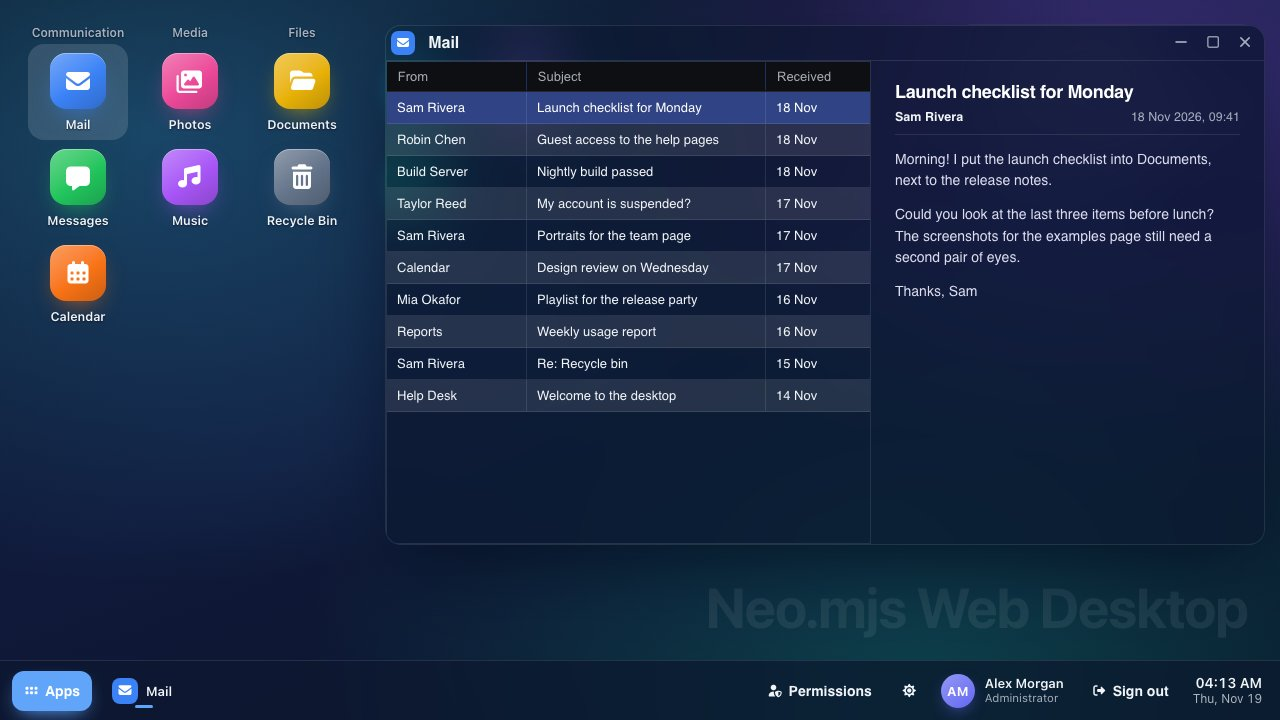
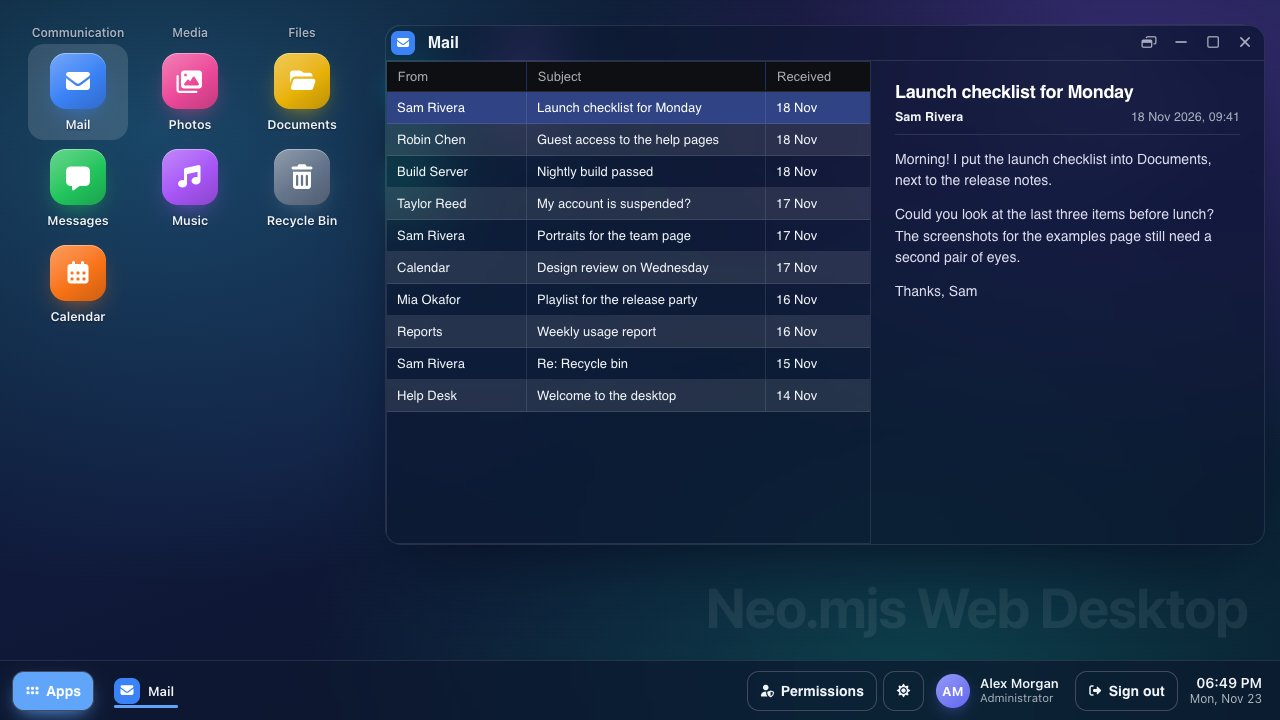
fix(desktop): synchronize popup themes and underline running tasks (#22104) (#22108)
* fix(desktop): synchronize popup themes and underline running tasks (#22104)

* fix(desktop): preserve inherited popup themes on return (#22104)

* fix(desktop): resolve standalone popup themes from the source viewport (#22104)

* docs(examples): refresh the Web Desktop taskbar preview (#22104)

* feat(portal): follow the selected theme in the Web Desktop preview (#22104)

* chore(portal): keep the light gallery cover in its Pages media source (#22104)

Changed region(s): [[0.5938, 0.9167, 1.0, 0.9778], [0.0, 0.9472, 0.1562, 1.0]]

diff --git a/resources/css/src/desktop/TaskList.css b/resources/css/src/desktop/TaskList.css
@@ -21,26 +21,24 @@
         height       : 40px;
         position     : relative;
 
-        /* The open indicator: an 18px bar under a running app, scaled to a 6px dot under a minimized one. It animates
-           the transform only, on the product motion tokens, which reduced motion sets to 0ms. */
+        /* Only this absolute, 3px-high marker changes size. Moving its edges preserves the 2px
+           rounded ends as any label width shrinks to the same centered 6px mark. */
         &::after {
             background-color: var(--desktop-task-list-accent-color);
             border-radius   : 2px;
             bottom          : 3px;
             content         : '';
             height          : 3px;
-            left            : 50%;
+            inset-inline    : 8px;
             position        : absolute;
-            transform       : translateX(-50%) scaleX(1);
-            transition      : transform var(--motion-base) var(--ease-out-soft);
-            width           : 18px;
+            transition      : inset-inline var(--motion-base) var(--ease-out-soft);
         }
 
         &.neo-desktop-task-minimized {
             opacity: .65;
 
             &::after {
-                transform: translateX(-50%) scaleX(.3333);
+                inset-inline: calc(50% - 3px);
             }
         }
     }
